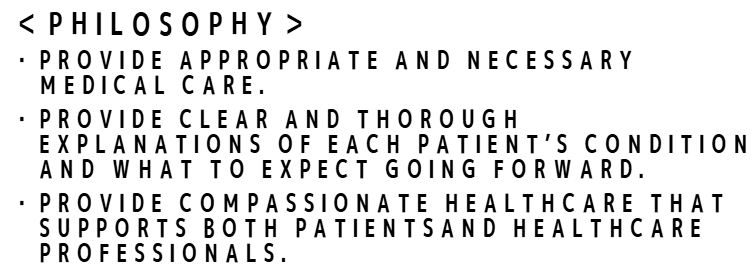
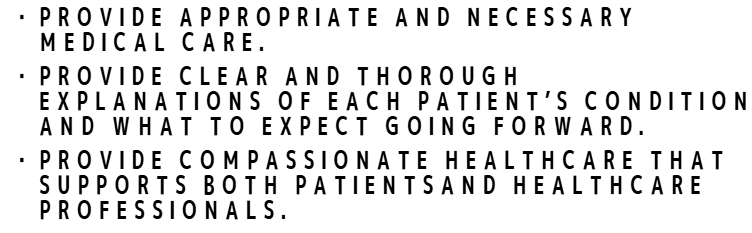
Add files via upload

Changed region(s): [[0.0306, 0.3906, 1.0, 0.9614], [0.0, 0.03, 0.8564, 0.3605]]

diff --git a/index.html b/index.html
@@ -56,8 +56,6 @@
 
 <main>
     <section id="clinic"></section>
-<p class="c">　　</p>
-<p class="c">　</p>
 
 <h2 class="c">当院について</h2>
 <p class="c">訪問診療・在宅診療を行うクリニックです。</p>
@@ -94,7 +92,7 @@
     
 <section>
 <div class="list-grid">
-<p class="c"><h2 class="c">当院の理念</h2></p>
+<p class="c"><h2 class="c">理念</h2></p>
 <div class="list up">
 <div class="text">
 <h4>適切かつ必要な医療を届ける</h4>
@@ -104,14 +102,14 @@
 
 <div class="list up">
 <div class="text">
-<h4>細やかな病状説明と納得のできる医療</h4>
+<h4>細やかな病状説明と<br>納得のできる医療<br></h4>
 <p>病状や今後の見通しについて想像ができるようにわかりやすく説明していきます。ご本人とご家族のご希望についても細やかに話し合い、治療方針や急な状態変化の時の対応も決めていきます。何かあっても慌てずに対応でき、納得のできる医療を提供していきます。</p>
 </div>
 </div>
 
 <div class="list up">
 <div class="text">
-<h4>患者・医療従事者の双方に優しい医療を届ける</h4>
+<h4>患者・医療従事者の双方に<br>優しい医療を届ける<br></h4>
 <p>患者さんに寄り添うことはもちろんですが、心身ともに健康な医療従事者がいてこそ、患者さんにもっと寄り添える医療を提供できると思っています。関わる全ての方に優しい医療提供を目指していきます。</p>
 </div>
 </div>  

diff --git a/css/style.css b/css/style.css
@@ -263,6 +263,12 @@ body.home header {
 	gap: 5vw;	/*ブロックの間に空けるスペース*/
 	text-align: center;	/*ブロック内をセンタリング*/
 }
+@media screen and (max-width: 899px) {
+   .list-grid {
+      grid-template-columns: 1fr;
+      gap: 30px;
+   }
+}
 
 /*ボックス内のfigure画像*/
 .list-grid .list figure {
@@ -805,4 +811,60 @@ section {
     .list-half .small-image {
         width: 32%;
     }
+}
+
+/* 当院の理念の下の余白を縮める */
+.bg1 section {
+    padding-bottom: 20px;
+}
+
+/* 利用をご検討の方へ側の上の余白を縮める */
+section:has(#acsess) {
+    padding-top: 20px;
+}
+
+.bg1 {
+    padding-bottom: 0 !important;
+    margin-bottom: 0 !important;
+}
+
+
+@media screen and (max-width: 899px) {
+    .list-grid > p.c {
+        margin: 0;
+        padding: 0;
+        height: auto;
+    }
+
+    .list-grid > p.c h2 {
+        white-space: nowrap;
+        margin: 0 0 20px;
+    }
+}
+
+@media screen and (max-width: 899px) {
+    .list-grid > p.c h2 {
+        white-space: nowrap;
+    }
+}
+
+.profile-slide {
+    width: 40%;
+    margin-left: auto;
+    margin-right: auto;
+}
+
+#clinic {
+    height: 0;
+    margin: 0;
+    padding: 0;
+}
+
+#acsess {
+    margin: 0 !important;
+    padding: 0 !important;
+    height: 0 !important;
+}
+#acsess + p + h2 {
+    margin-top: -40px !important;
 }

diff --git a/service.html b/service.html
@@ -97,12 +97,7 @@
       <p class="l">2026年　長崎大学大学院　熱帯医学・グローバルヘルス研究科　熱帯医学コース　卒業</p>
     </div>
 
-    <div class="image-r small-image">
-      <figure>
-        <img src="images/dou.jpg" alt="学歴">
-      </figure>
-    </div>
-
+    
   </div>
 
 </div>
@@ -140,14 +135,33 @@
 
     </div>
 
-    <div class="image-r small-image">
-      <figure>
-        <img src="images/katu.jpeg" alt="その他活動">
-      </figure>
-    </div>
+    
+  </div>
+<aside class="slide profile-slide">
 
+  <div class="slide img1">
+    <img src="images/dou.jpg" alt="">
   </div>
 
+  <div class="slide img2">
+    <img src="images/katu.jpeg" alt="">
+  </div>
+
+  <div class="slide img3">
+    <img src="images/iti.jpg" alt="">
+  </div>
+
+  <div class="slide img4">
+    <img src="images/ni.jpeg" alt="">
+  </div>
+
+  <div class="slide img5">
+    <img src="images/san.jpeg" alt="">
+  </div>
+
+  <div class="slide-indicators"></div>
+
+</aside>
 </div>
 
 </section>

diff --git a/KOLIA.html b/KOLIA.html
@@ -44,17 +44,15 @@
 <main>
 
 <section>
+<h2 class="c bg1">한국어</h2>
 
-<h2>한국어</h2>
-
-
-<h2>理念</h2>
+<h2>＜진료 철학＞</h2>
 <p><img src="images/RINENK.png" alt=""></p>
 
 </section>
 <section>
 
-<h2>費用</h2>
+<h2>＜비용＞</h2>
 <p><img src="images/HIYOK.png" alt=""></p>
 <p><img src="images/OKANEK.png" alt=""></p>
 </section>

diff --git a/ENGLISH.html b/ENGLISH.html
@@ -45,15 +45,15 @@
 
 <section>
 
-<h2>English</h2>
+<h2 class="c bg1">English</h2>
 
-<h2>理念</h2>
+<h2>＜Philosophy＞</h2>
 <p><img src="images/RINENE.png" alt=""></p>
 
 </section>
 <section>
 
-<h2>費用</h2>
+<h2>＜Consultation fee＞</h2>
 <p><img src="images/HIYOE.png" alt=""></p>
 <p><img src="images/OKANEE.png" alt=""></p>
 </section>
